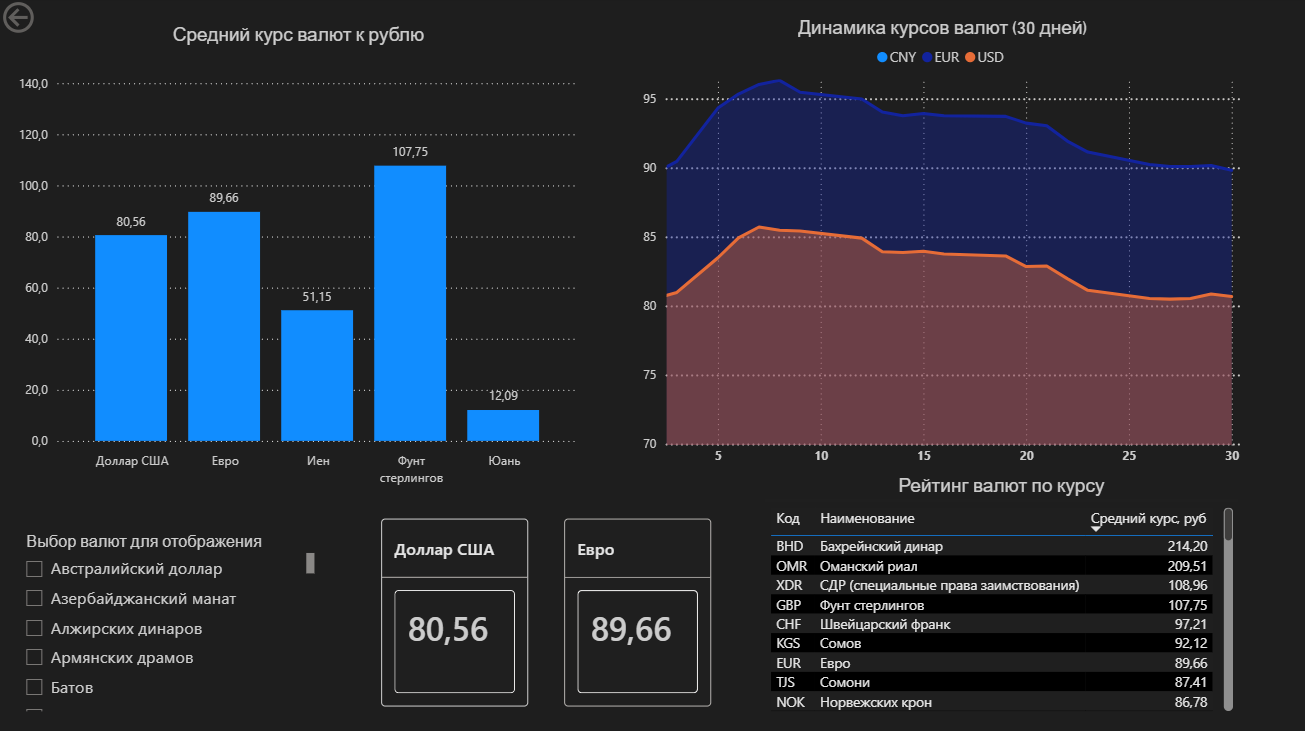
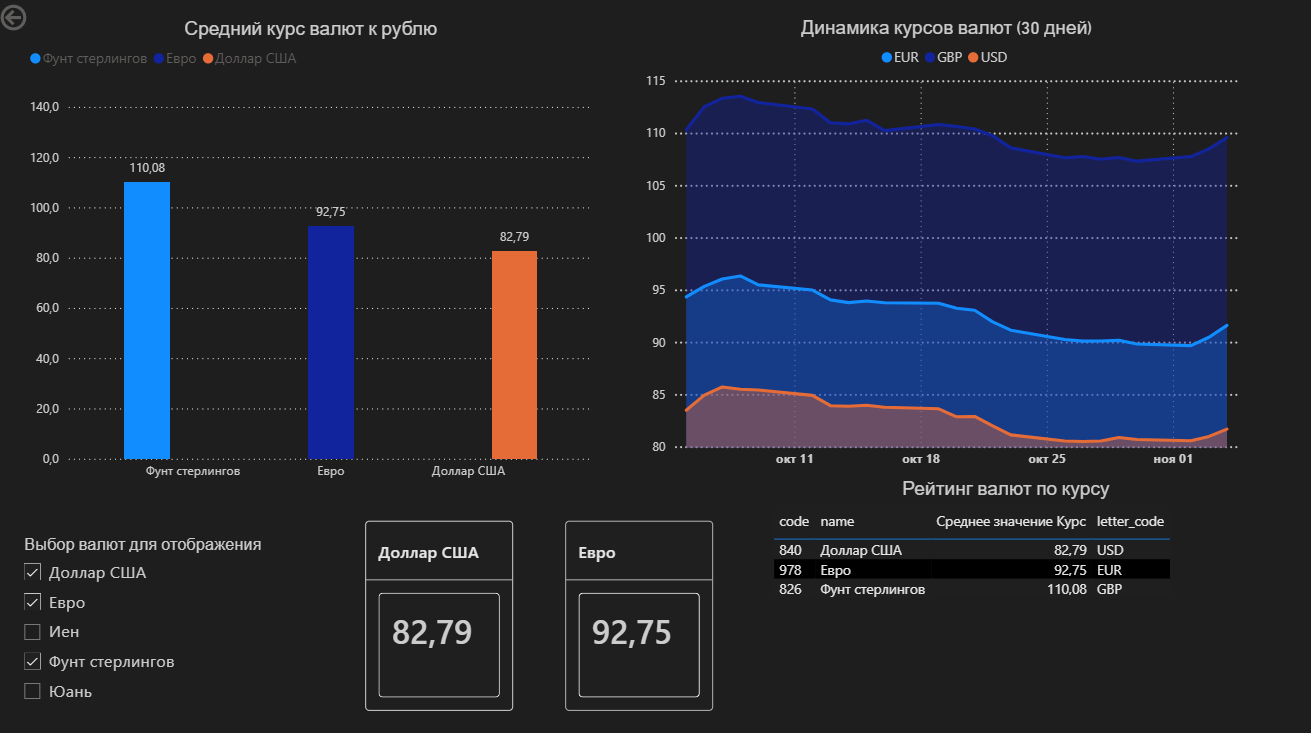
Add files via upload

diff --git a/cbr_parser.py b/cbr_parser.py
@@ -6,7 +6,7 @@ from parser_utils import safe_request, save_to_excel
 def parse_cbr_history(days_back=30):
     data_list = []
     # Задаем жесткую дату старта: 31 октября 2026
-    end_date = datetime.strptime('31.10.2026', '%d.%m.%Y')
+    end_date = datetime.now()
     
     for i in range(days_back):
         date = end_date - timedelta(days=i)
